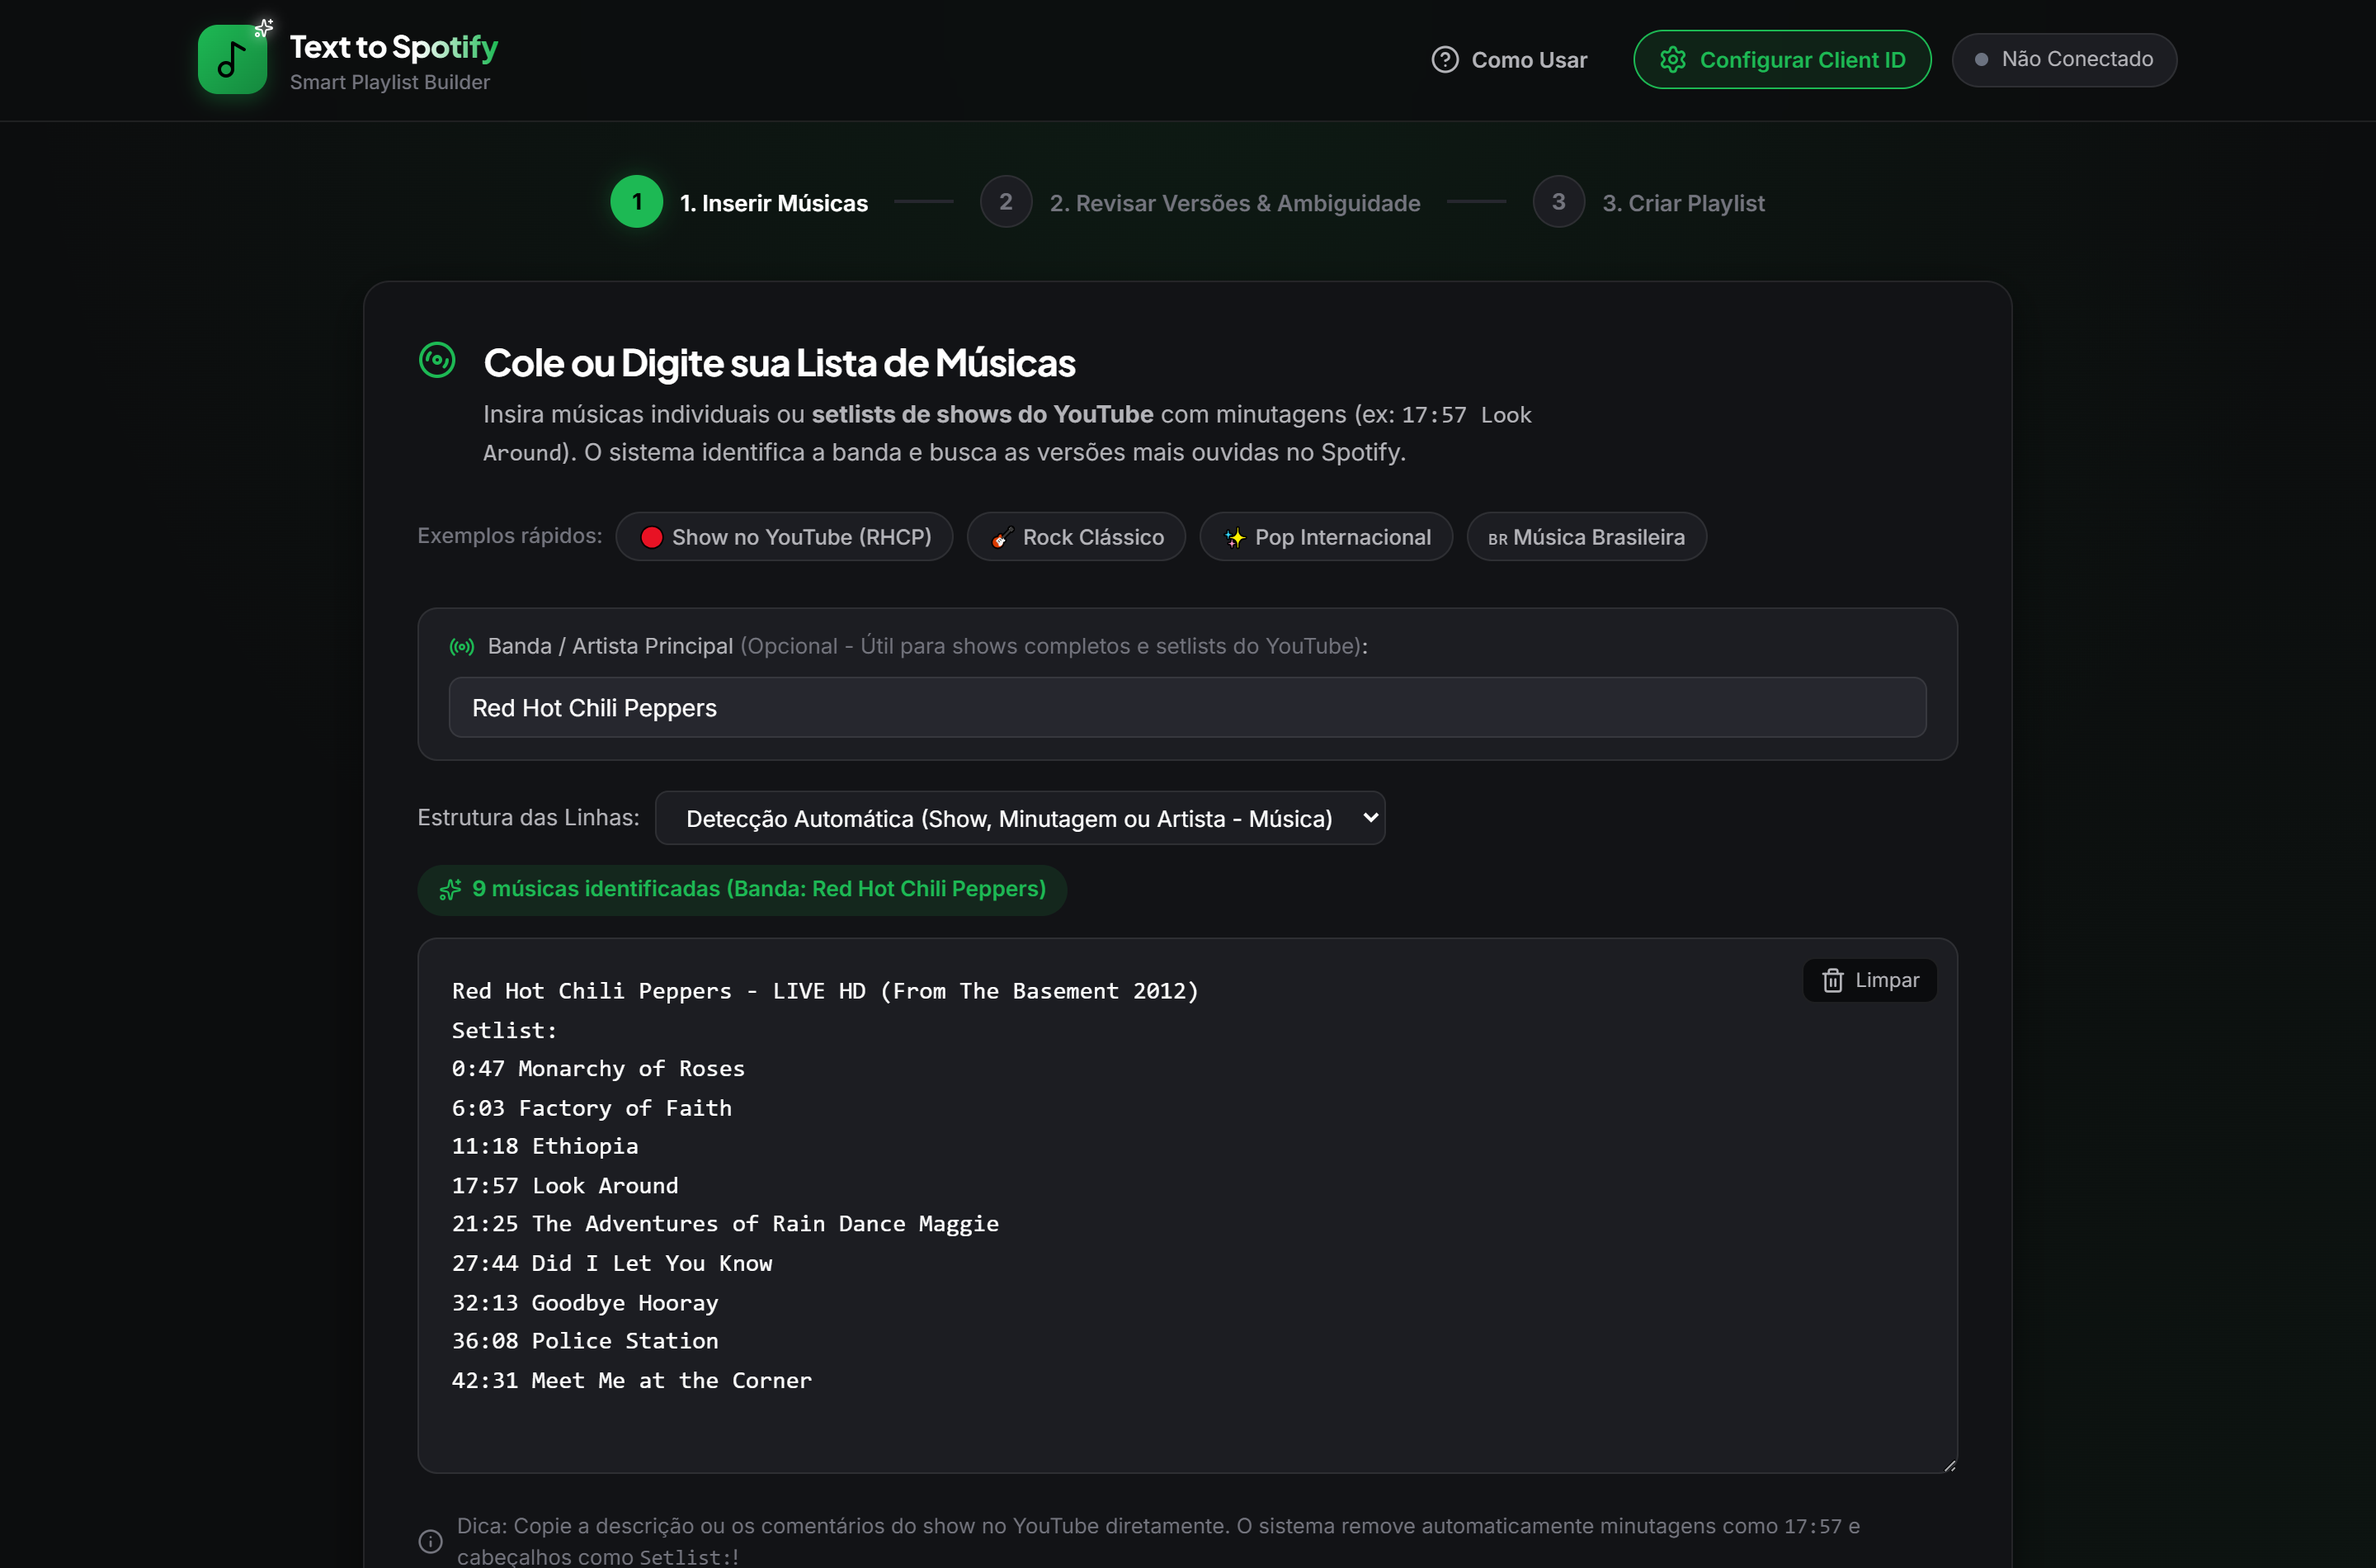
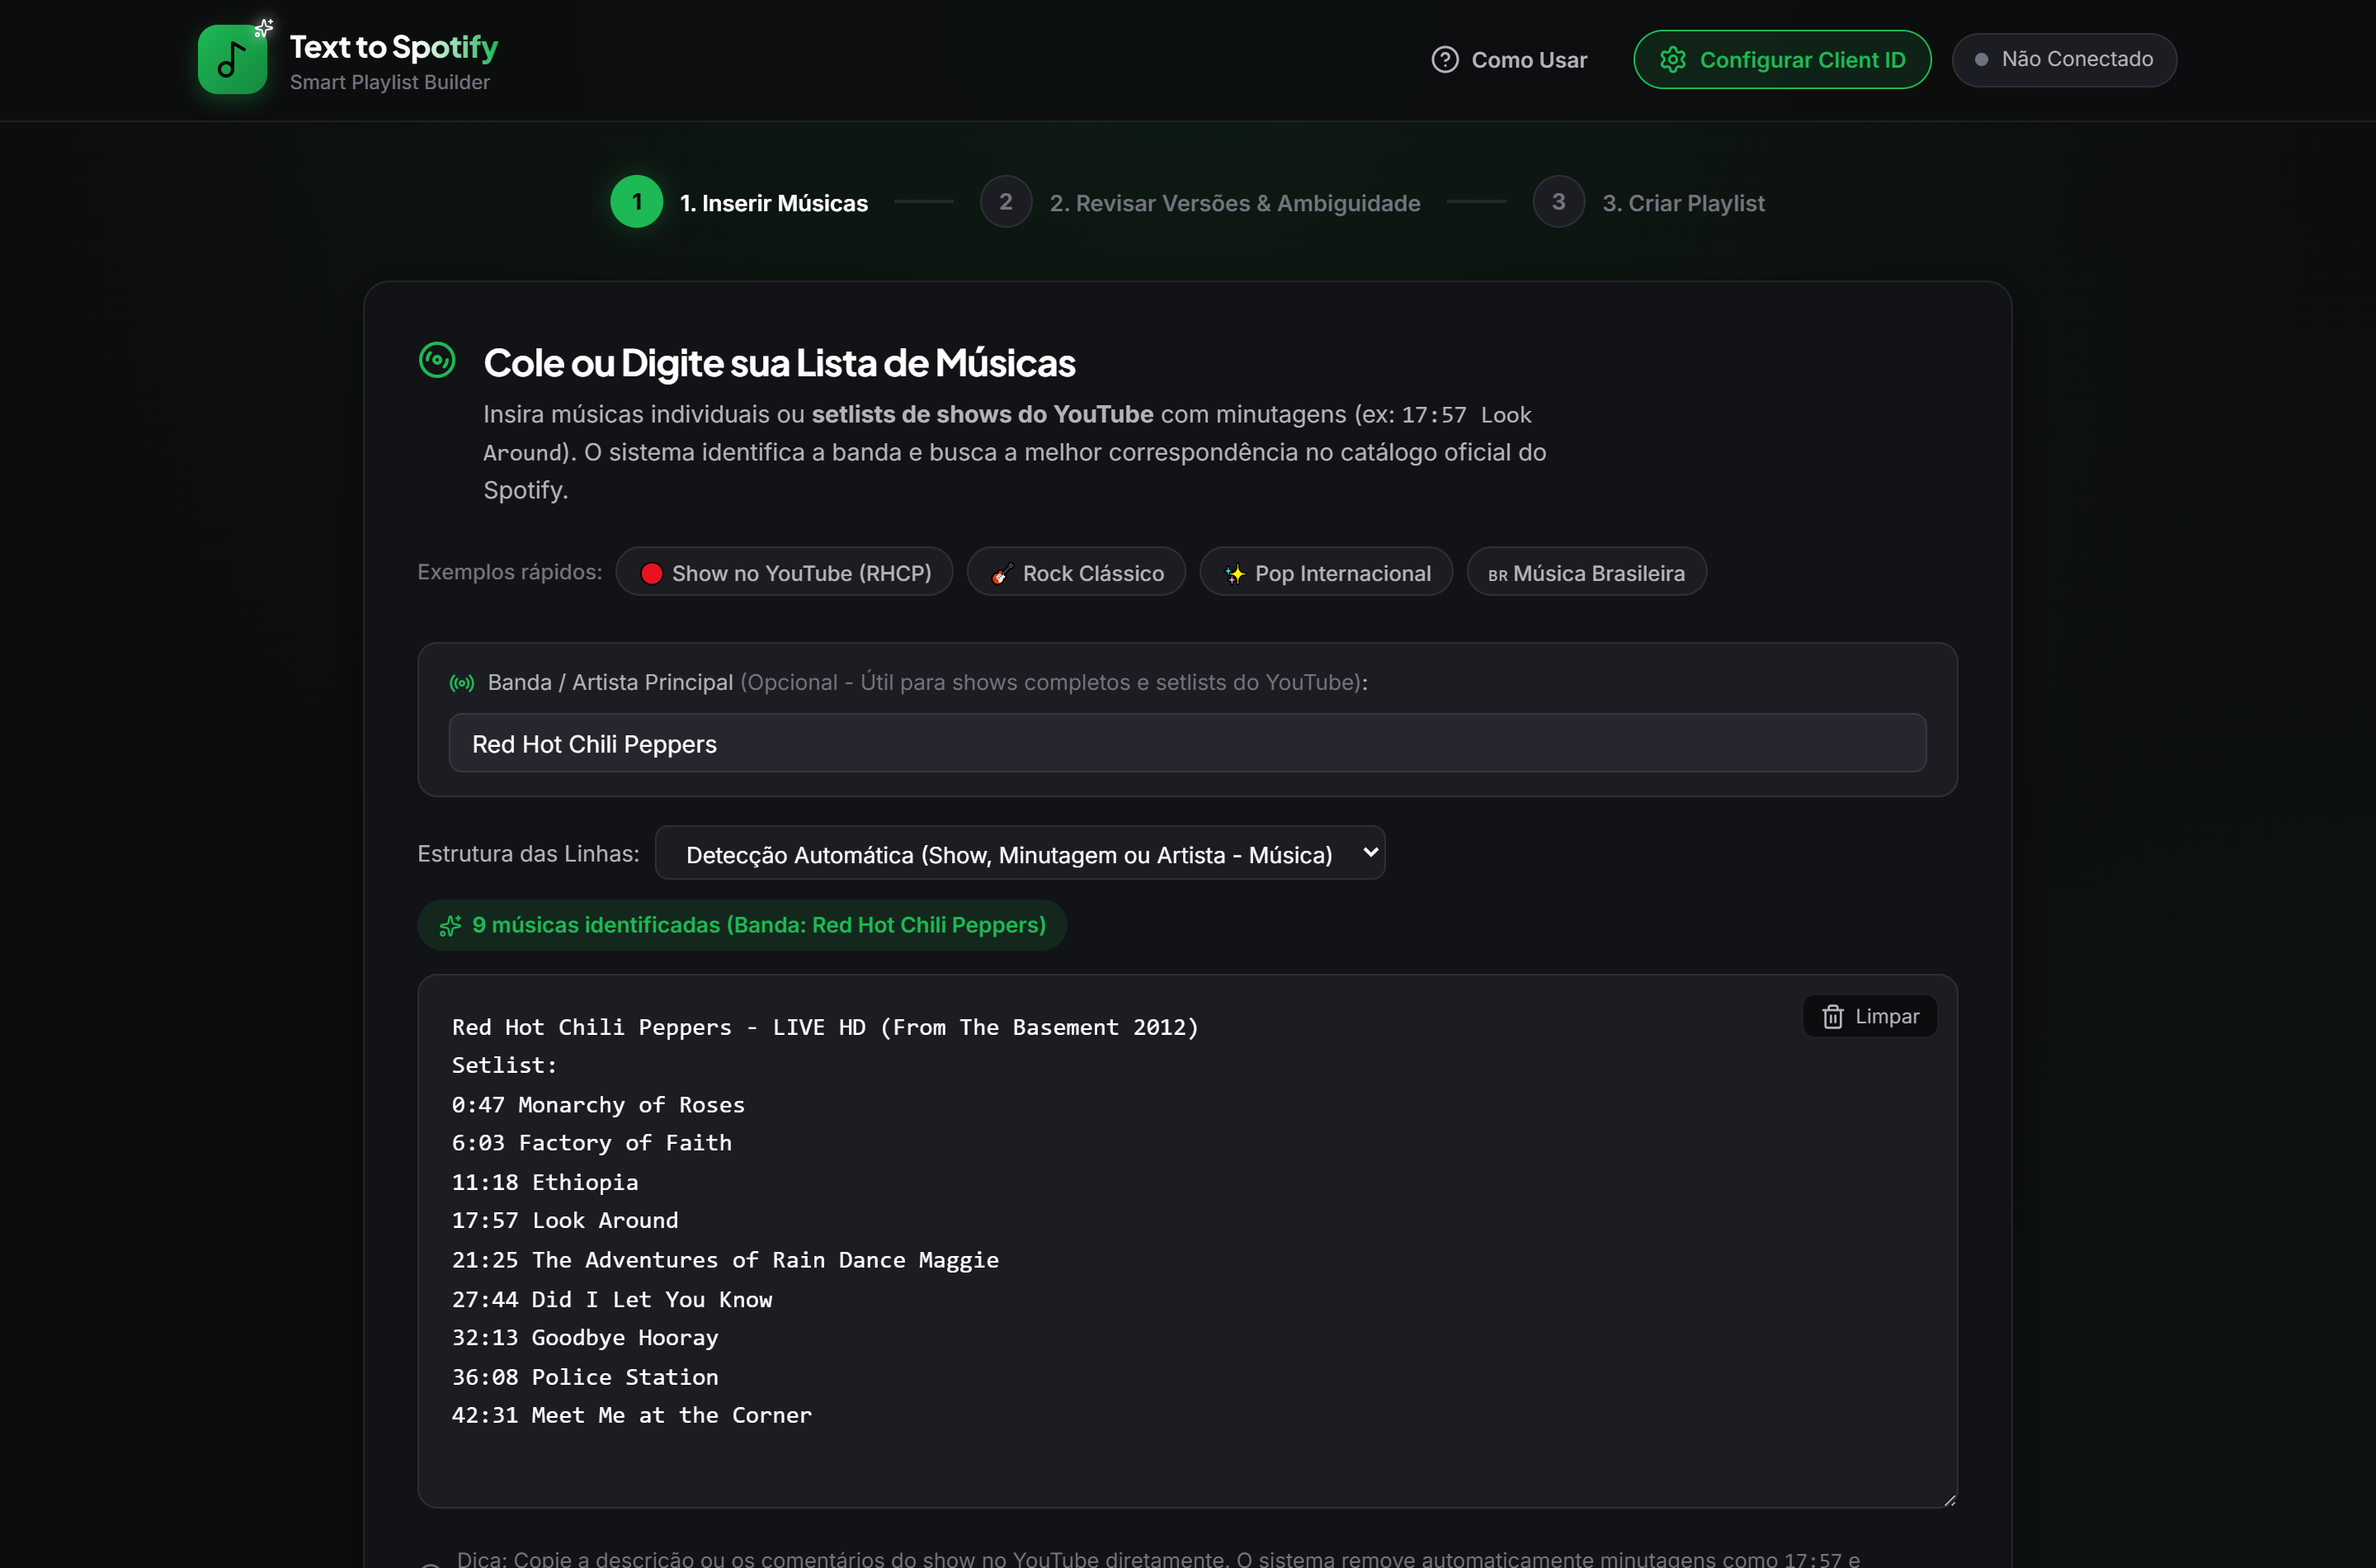
docs: alinha os textos da interface ao que a API realmente entrega
Cinco trechos anunciavam ranqueamento por popularidade como garantido, o que
deixou de valer quando o Spotify passou a omitir `popularity` para apps sem
acesso estendido.

- Entrada: "busca as versoes mais ouvidas" -> "busca a melhor correspondencia
  no catalogo oficial".
- Revisao: "gravacao oficial mais escutada" -> "melhor correspondencia
  oficial"; barra de progresso deixa de dizer "Analisando popularidade".
- Troca de versao: lista deixa de se dizer ordenada por popularidade.
- Ajuda: passa a explicar o criterio real, com a popularidade entrando no
  calculo apenas quando a API a fornece.

Capturas 01 a 04 refeitas com os textos novos.

diff --git a/src/components/HelpModal.tsx b/src/components/HelpModal.tsx
@@ -113,10 +113,10 @@ export const HelpModal: React.FC<HelpModalProps> = ({ isOpen, onClose }) => {
           <div className="feature-highlight-box">
             <div className="feature-highlight-header">
               <Sparkles className="feature-icon" size={18} />
-              <strong>Como funciona a busca pela versão mais ouvida?</strong>
+              <strong>Como o sistema escolhe a versão de cada faixa?</strong>
             </div>
             <p>
-              O sistema pesquisa no catálogo oficial do Spotify e analisa as métricas de <em>Popularity</em> (0 a 100). Ele descarta gravações de tributos e covers não oficiais e prioriza a versão original com maior número de streams. Caso haja regravações, álbuns ao vivo ou edições comemorativas muito próximas, o sistema marca como <em>Divergência / Ambiguidade</em> para que você possa escolher a versão exata com 1 clique!
+              O sistema pesquisa no catálogo oficial do Spotify e ranqueia os resultados por semelhança de artista e de título, descartando tributos, covers não oficiais e karaokê. Quando o Spotify fornece a métrica de <em>Popularity</em> (0 a 100), ela entra no cálculo para priorizar a gravação mais ouvida; sem ela, vale a ordem de relevância da própria busca. Caso haja regravações, álbuns ao vivo ou edições comemorativas muito próximas, a faixa é marcada como <em>Divergência / Ambiguidade</em> para que você escolha a versão exata com 1 clique!
             </p>
           </div>
         </div>

diff --git a/src/components/ReviewStep.tsx b/src/components/ReviewStep.tsx
@@ -102,7 +102,7 @@ export const ReviewStep: React.FC<ReviewStepProps> = ({
           <div>
             <h2>Revisão & Seleção de Versões</h2>
             <p className="card-subtitle">
-              Identificamos automaticamente a gravação oficial mais escutada para cada faixa. Se houver divergências de nomes ou versões, você pode ajustar com 1 clique.
+              Identificamos automaticamente a melhor correspondência oficial para cada faixa. Se houver divergências de nomes ou versões, você pode ajustar com 1 clique.
             </p>
           </div>
         </div>
@@ -126,7 +126,7 @@ export const ReviewStep: React.FC<ReviewStepProps> = ({
           <div className="progress-text-row">
             <span className="progress-title">
               <RefreshCw size={14} className="spin-icon" />
-              Analisando popularidade no catálogo do Spotify...
+              Consultando o catálogo do Spotify...
             </span>
             <span className="progress-count">
               {searchProgress.current} de {searchProgress.total} faixas

diff --git a/src/components/TextInputStep.tsx b/src/components/TextInputStep.tsx
@@ -114,7 +114,7 @@ export const TextInputStep: React.FC<TextInputStepProps> = ({
           <div>
             <h2>Cole ou Digite sua Lista de Músicas</h2>
             <p className="card-subtitle">
-              Insira músicas individuais ou <strong>setlists de shows do YouTube</strong> com minutagens (ex: <code>17:57 Look Around</code>). O sistema identifica a banda e busca as versões mais ouvidas no Spotify.
+              Insira músicas individuais ou <strong>setlists de shows do YouTube</strong> com minutagens (ex: <code>17:57 Look Around</code>). O sistema identifica a banda e busca a melhor correspondência no catálogo oficial do Spotify.
             </p>
           </div>
         </div>

diff --git a/src/components/TrackOptionModal.tsx b/src/components/TrackOptionModal.tsx
@@ -211,7 +211,7 @@ export const TrackOptionModal: React.FC<TrackOptionModalProps> = ({
           <div className="modal-notice">
             <AlertTriangle size={16} className="notice-icon" />
             <span>
-              Listamos as versões encontradas ordenadas por <strong>Popularidade (mais ouvidas)</strong> no Spotify. Escolha a versão desejada abaixo:
+              Listamos as versões encontradas, ordenadas pela <strong>melhor correspondência</strong> segundo a busca do Spotify. Escolha a versão desejada abaixo:
             </span>
           </div>
 
